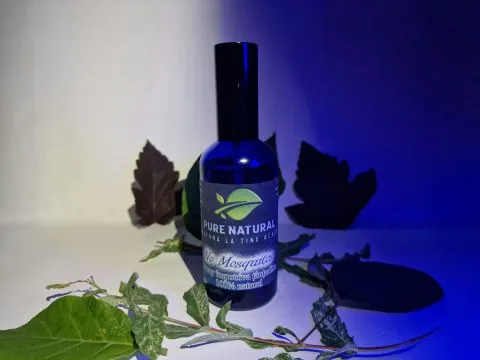
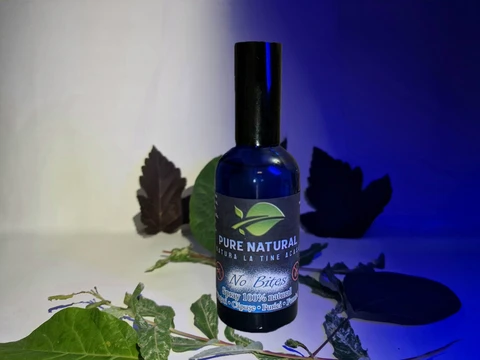
content(data): rename No Mosquitos to No Bites

Changed region(s): [[0.0, 0.0, 0.9688, 1.0], [0.6875, 0.4278, 0.7188, 0.4583]]

diff --git a/src/js/data/products.js b/src/js/data/products.js
@@ -93,7 +93,7 @@ const products = [
         description: 'O explozie efervescentă ce unește notele citrice radiante de portocală bio și bergamotă cu delicatețea palmarosei bio, dulceața vaniliei și profunzimea petitgrainului bio, aducând bună dispoziție și un zâmbet luminos pe chipul tău.'
     },
 
-    // No Mosquitos
+    // No Bites
     {
         id: crypto.randomUUID(),
 
@@ -102,7 +102,7 @@ const products = [
             modalImage: images.noMosquitos.modalImage
         },
 
-        name: 'No Mosquitos',
+        name: 'No Bites',
         category: PRODUCT_CATEGORY.MOSQUITO_SPRAY,
         price: 40,
 
